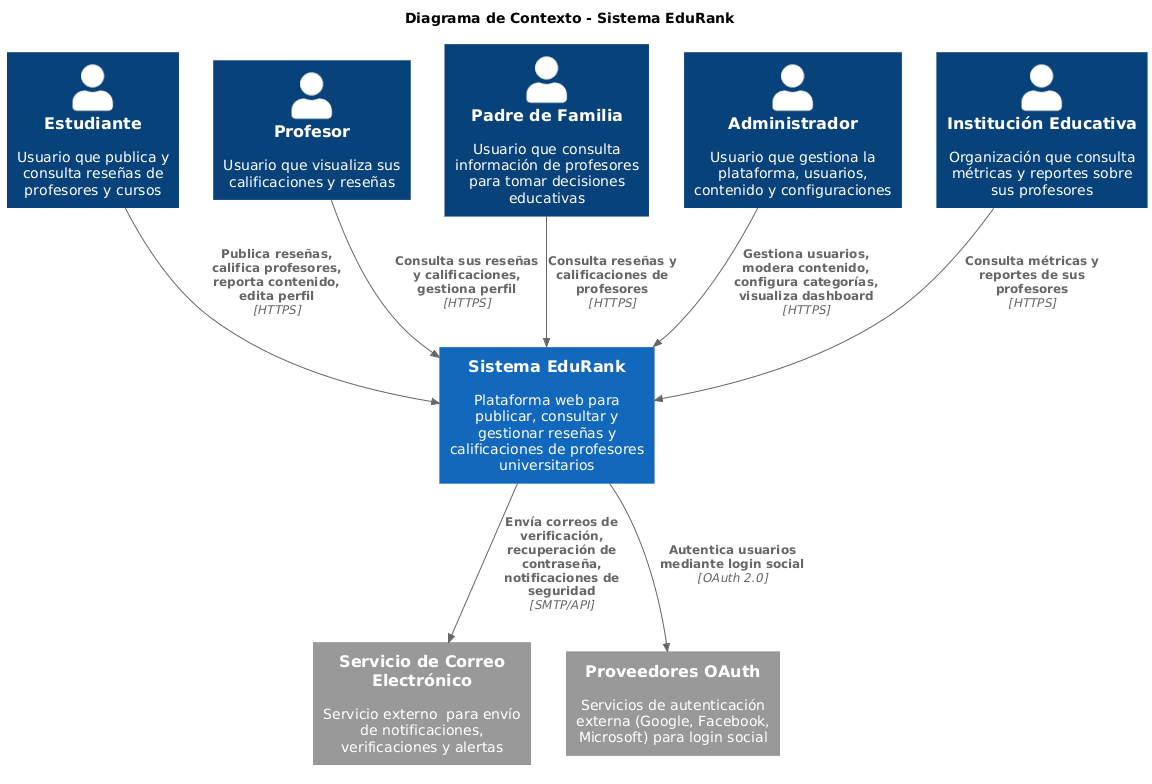
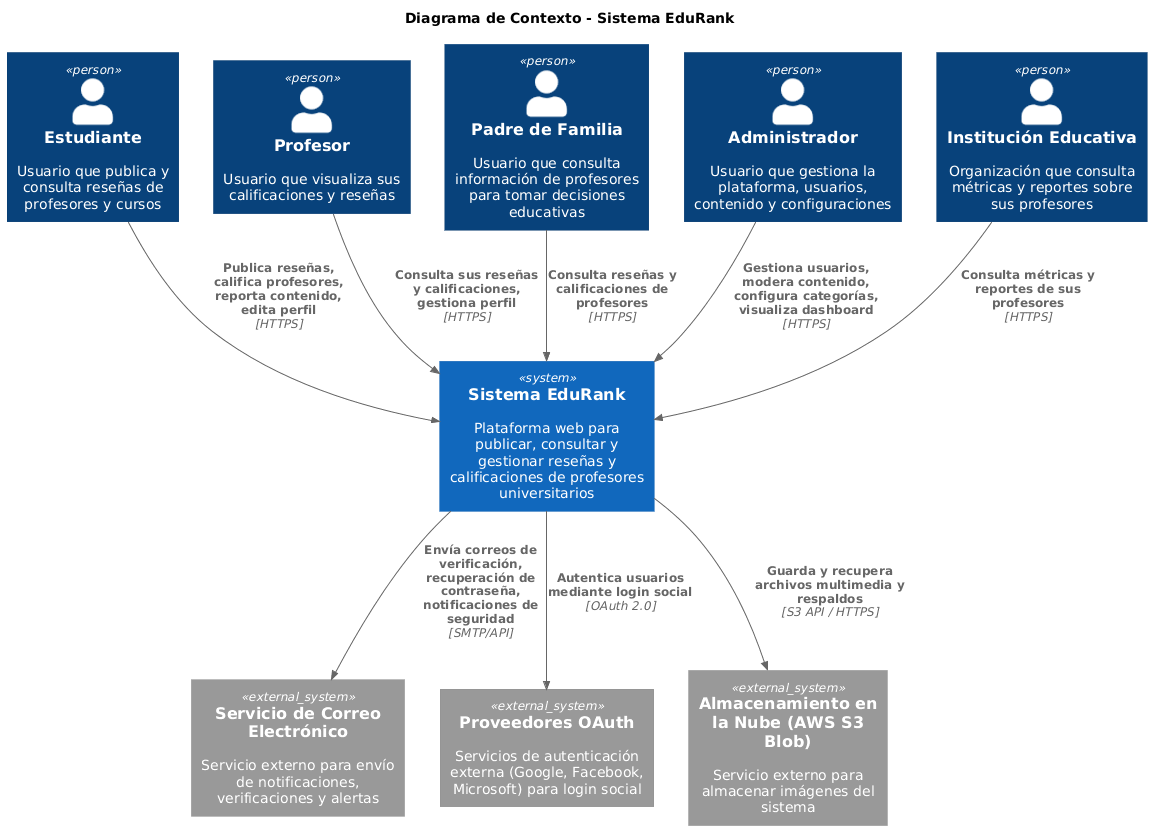
Diagramas y correcciones

diff --git a/3/3.3/3.3.md b/3/3.3/3.3.md
@@ -15,7 +15,7 @@ Este documento presenta la consolidación de los 30 escenarios preliminares iden
 | ESC-03 | Usabilidad | Administrador sin experiencia técnica necesita cambiar estados de cuenta, configurar categorías, buscar reseñas, ordenar datos, editar perfil o actualizar foto desde móvil | El usuario completa todas las acciones sin asistencia externa mediante interfaz intuitiva con tutoriales y paneles amigables en <5 pasos y <3 minutos | ESCP-03, ESCP-05, ESCP-16, ESCP-21, ESCP-23, ESCP-28 | Interfaz intuitiva y consistente en todos los módulos |
 | ESC-04 | Rendimiento | Cientos de usuarios malintencionados o administradores concurrentes solicitan simultáneamente reportes de cuentas de usuarios | El sistema activa limitación de peticiones (rate-limiting) o encola solicitudes para evitar saturación, manteniendo servicio disponible y rechazando excedentes en <1s | ESCP-04 | Procesamiento de volúmenes con protección DDoS |
 | ESC-05 | Seguridad | Usuarios no autorizados intentan acceder al panel administrativo, editar reseñas ajenas, acceder a perfiles privados o subir archivos con extensiones no permitidas (.exe) | El sistema bloquea todos los intentos inmediatamente, registra eventos en log de auditoría (<1s), notifica al administrador y muestra mensaje de error sin comprometer seguridad | ESCP-06, ESCP-18, ESCP-25, ESCP-30 | Detección de amenazas y validación de acceso |
-| ESC-06 | Mantenibilidad | Equipo de desarrollo solicita cambios en lógica de validación de usuarios, agregar filtros de reseñas, corregir validación de texto o agregar campo opcional al perfil | El cambio se implementa y despliega sin afectar otras funcionalidades del sistema mediante arquitectura modular en tiempo <4 horas con pruebas automatizadas | ESCP-07, ESCP-15, ESCP-22, ESCP-27 | Actualizaciones sin interrupción de servicio |
+| ESC-06 | Mantenibilidad | Equipo de desarrollo solicita cambios en lógica de validación de usuarios, agregar filtros de reseñas, corregir validación de texto o agregar campo opcional al perfil | El cambio se implementa y despliega sin afectar otras funcionalidades del sistema mediante backend monolítico con componentes modulares en tiempo <4 horas con pruebas automatizadas | ESCP-07, ESCP-15, ESCP-22, ESCP-27 | Actualizaciones sin interrupción de servicio |
 | ESC-07 | Confidencialidad | Usuario sin permisos intenta leer datos privados de perfil de otros usuarios mediante acceso directo a endpoints | El sistema enforza control estricto por rol/propiedad de recurso con 100% de endpoints verificando permisos antes de retornar datos | ESCP-10 | Protección de información privada |
 | ESC-08 | Integridad | Atacante modifica token de acceso con firma inválida o realiza acción crítica desde sesión secuestrada en dispositivo desconocido | El sistema rechaza la solicitud inmediatamente, solicita re-autenticación o 2FA, invalida tokens previos y detecta cambio de IP en <3s con cierre de sesión global en <6s | ESCP-11, ESCP-12 | Validación de integridad de sesiones |
 | ESC-09 | Disponibilidad | Pico de 100 logins por minuto de usuarios legítimos durante hora pico con verificación 2FA | El sistema escala horizontalmente con rate-limit por IP/usuario, procesando logins en <2s con error rate <1% y sin caída del servicio 2FA | ESCP-13 | Escalabilidad horizontal en autenticación |
@@ -27,7 +27,7 @@ Este documento presenta la consolidación de los 30 escenarios preliminares iden
 | ESC-15 | Usabilidad | Usuario desea ordenar reseñas por diferentes criterios (fecha, calificación, relevancia) | El sistema muestra opciones de ordenamiento visibles y accesibles, permitiendo que el usuario encuentre la opción en <5 segundos con feedback inmediato | ESCP-21 | Personalización de interfaz |
 | ESC-16 | Mantenibilidad | Desarrollador necesita agregar nueva funcionalidad de filtros avanzados al módulo de reseñas y calificaciones | El sistema permite implementar nuevos filtros mediante arquitectura de plugins sin modificar código existente en tiempo <4 horas con tests automatizados | ESCP-15 | Arquitectura modular y extensible |
 | ESC-17 | Rendimiento | Administrador consulta listado general de usuarios con todos sus datos al iniciar el sistema durante jornada laboral | El sistema optimiza carga inicial mediante caché y consultas eficientes, mostrando información completa sin retrasos perceptibles en <5s con interfaz estable | ESCP-08 | Optimización de carga inicial |
-| ESC-18 | Disponibilidad | Falla simultánea de múltiples servidores (administración, reseñas, perfiles) en diferentes módulos del sistema | El sistema detecta las fallas y restaura cada servicio automáticamente mediante healthchecks y restart policies en tiempo <30 segundos por módulo | ESCP-02, ESCP-19, ESCP-26 | Recuperación automática de servicios |
+| ESC-18 | Disponibilidad | Falla del servidor backend que afecta múltiples componentes (administración, reseñas, perfiles) del sistema monolítico | El sistema detecta la falla y restaura el proceso automáticamente mediante monitor de procesos (PM2/Supervisor) con healthchecks y restart policies en tiempo <30 segundos | ESCP-02, ESCP-19, ESCP-26 | Recuperación automática del servidor |
 | ESC-19 | Usabilidad | Usuario autenticado desea editar información personal o actualizar foto de perfil desde dispositivo móvil o web | El sistema muestra formulario de edición con datos actuales precargados y permite previsualizar cambios antes de guardar en proceso de <2 pasos completado en <2 segundos | ESCP-23, ESCP-28 | Formularios precargados y responsivos |
 | ESC-20 | Confidencialidad | Atacante intenta login con credenciales comprometidas o filtradas de bases de datos externas | El sistema rechaza autenticación sin revelar si el correo existe en la base de datos, registra el intento sospechoso y retorna respuesta HTTP 401 en <300ms | ESCP-09 | Comunicación segura de errores de autenticación |
 

diff --git a/6/6.3/6.3.md b/6/6.3/6.3.md
@@ -2,78 +2,9 @@
 
 # 6.3. Diagrama de Componentes
 
-Este diagrama profundiza en el **Backend Monolítico** del Sistema EduRank, descomponiéndolo en los componentes clave que colaboran para proporcionar la funcionalidad del sistema.
+
+![Diagrama de Componentes](diagramacomponentes.png)
 
 ---
-
-## Diagrama de Componentes C4 - Backend EduRank
-
-```plantuml
-@startuml
-!include https://raw.githubusercontent.com/plantuml-stdlib/C4-PlantUML/master/C4_Component.puml
-
-LAYOUT_WITH_LEGEND()
-
-title Diagrama de Componentes - Sistema EduRank Backend
-
-Person(user, "Usuario", "Estudiante, Profesor, Administrador")
-
-Container(webApp, "Aplicación Web SPA", "React", "Interfaz de usuario del sistema")
-
-Container_Boundary(backend, "Backend Monolítico") {
-    Component(apiController, "Controlador API REST", "Express.js", "Expone endpoints REST")
-    
-    Component(authComp, "Componente de Autenticación", "Node.js", "Login, 2FA, OAuth (RF10-RF15)")
-    Component(securityComp, "Componente de Seguridad", "Middleware", "JWT, RBAC, Rate Limiting (ESC-05,07,20)")
-    
-    Component(reviewsComp, "Componente de Reseñas", "Capa de Servicios", "CRUD Reseñas (RF19-RF25)")
-    Component(profilesComp, "Componente de Perfiles", "Capa de Servicios", "Gestión Perfiles (RF26-RF31)")
-    Component(adminComp, "Componente de Administración", "Capa de Servicios", "Moderación (RF01-RF09)")
-    
-    ComponentDb(dataAccess, "Capa de Acceso a Datos", "Repositorios ORM", "CRUD usuarios, reseñas, perfiles")
-    
-    Component(cacheManager, "Gestor de Caché", "Cliente Redis", "Sesiones y caché (ESC-01,17)")
-    Component(emailClient, "Cliente de Correo", "Nodemailer", "Envío de correos electrónicos")
-}
-
-ContainerDb(database, "Base de Datos", "PostgreSQL", "Almacena todos los datos del sistema")
-ContainerDb(cache, "Caché Redis", "Redis", "Almacena sesiones y consultas frecuentes")
-
-System_Ext(emailService, "Servicio de Correo", "Proveedor externo de email")
-System_Ext(oauthProviders, "Proveedores OAuth", "Google, Facebook")
-
-Rel(user, webApp, "Usa", "HTTPS")
-Rel(webApp, apiController, "Consume API", "JSON/HTTPS")
-
-Rel(apiController, securityComp, "Valida seguridad")
-Rel(apiController, authComp, "Autentica usuario")
-Rel(apiController, reviewsComp, "Gestiona reseñas")
-Rel(apiController, profilesComp, "Gestiona perfiles")
-Rel(apiController, adminComp, "Funciones admin")
-
-Rel(securityComp, cacheManager, "Valida sesiones")
-Rel(authComp, dataAccess, "Lee/Escribe usuarios")
-Rel(authComp, cacheManager, "Guarda sesiones")
-Rel(authComp, emailClient, "Envía verificación")
-Rel(authComp, oauthProviders, "Autentica con", "OAuth 2.0")
-
-Rel(reviewsComp, dataAccess, "Lee/Escribe reseñas")
-Rel(reviewsComp, cacheManager, "Cachea consultas")
-
-Rel(profilesComp, dataAccess, "Lee/Escribe perfiles")
-Rel(adminComp, dataAccess, "Modera contenido")
-Rel(adminComp, emailClient, "Envía alertas")
-
-Rel(dataAccess, database, "Lee/Escribe", "SQL")
-Rel(cacheManager, cache, "Lee/Escribe", "Protocolo Redis")
-Rel(emailClient, emailService, "Envía correos", "SMTP")
-
-@enduml
-```
-
-**Descripción:**  
-El diagrama muestra la descomposición interna del Backend Monolítico en componentes especializados. El **Controlador API REST** actúa como punto de entrada y distribuye las peticiones a los componentes de negocio (Autenticación, Seguridad, Reseñas, Perfiles, Administración). Estos componentes coordinan la lógica de negocio y utilizan la **Capa de Acceso a Datos** para persistir información en PostgreSQL. El **Gestor de Caché** optimiza el rendimiento almacenando sesiones y consultas frecuentes en Redis, mientras que el **Cliente de Correo** maneja las notificaciones por email. Los sistemas externos (OAuth, Email Service) se integran a través de componentes especializados.
-
-
 
 [⬅ Anterior](../6.2/6.2.md) | [🏠 Home](../../README.md) | [Siguiente ➡](../6.4/6.4.md)

diff --git a/3/3.5/3.5.md b/3/3.5/3.5.md
@@ -14,7 +14,7 @@ Este documento presenta el refinamiento detallado de los 20 escenarios consolida
 | ESC-02 | Disponibilidad | Fallo de hardware | Caída del servidor principal durante horario laboral | Infraestructura con healthchecks | Producción | Reinicio automático del servicio afectado | Recuperación en <10 minutos (90% casos <30s) |
 | ESC-03 | Usabilidad | Administrador nuevo | Primera vez configurando categorías en el sistema | Interfaz web con tutorial interactivo | Producción | Tutorial paso a paso con tooltips y validación | 90% completan tarea sin asistencia en <3 minutos |
 | ESC-04 | Rendimiento | Bots automatizados | Cientos de solicitudes de reportes simultáneas | API con rate-limiting y cola FIFO | Producción | Limitación de peticiones y encolamiento automático | Rate-limit activado <1s, 100% uptime |
-| ESC-06 | Mantenibilidad | Equipo desarrollo | Cambio en lógica de validación de usuarios | Arquitectura modular con microservicios | Desarrollo | Despliegue del cambio sin afectar otros módulos | Implementación <4 horas + 0 downtime |
+| ESC-06 | Mantenibilidad | Equipo desarrollo | Cambio en lógica de validación de usuarios | Backend monolítico con componentes modulares | Desarrollo | Despliegue del cambio sin afectar otros módulos | Implementación <4 horas + 0 downtime |
 | ESC-08 | Integridad | Atacante externo | Modificación de token JWT con firma inválida | Sistema de gestión de sesiones JWT | Producción | Rechazo de solicitud y cierre de sesión global | Detección <3s, cierre sesión <6s |
 | ESC-01 | Rendimiento | 300 usuarios concurrentes | Generación masiva de listados con filtros avanzados | Servidor con caché Redis y balanceador | Producción | Procesamiento sin degradación mediante escalado | 95% requests <3s con 300 usuarios |
 | ESC-07 | Confidencialidad | Usuario sin permisos | Intento de acceso directo a endpoint /users/:id/profile | API REST con middleware de autorización | Producción | Validación de permisos y rechazo con HTTP 403 | 100% endpoints protegidos, validación <50ms |
@@ -27,7 +27,7 @@ Este documento presenta el refinamiento detallado de los 20 escenarios consolida
 | ESC-12 | Rendimiento | 100 usuarios concurrentes | Actualización simultánea de datos de perfil personal | Módulo de perfiles con cola asíncrona | Producción | Procesamiento asíncrono con cola FIFO | Guardado <1s, tiempo medio <2s bajo carga |
 | ESC-13 | Seguridad | Usuario malicioso | Intento de subir archivo .exe como foto de perfil | Validador de tipo MIME en backend | Producción | Rechazo con validación de extensión y tipo MIME | 100% archivos maliciosos bloqueados |
 | ESC-15 | Usabilidad | Usuario | Click en ordenar por "Fecha más reciente" en listado | Componente de ordenamiento con dropdown | Producción | Reordenamiento instantáneo de reseñas mostradas | Cambio visible <500ms (feedback inmediato) |
-| ESC-18 | Disponibilidad | Error en despliegue | Caída simultánea de servicios (admin, reseñas, perfiles) | Kubernetes con healthchecks cada 10s | Producción | Detección de fallas y restart automático por módulo | Recuperación <30s por módulo |
+| ESC-18 | Disponibilidad | Error en despliegue | Caída del servidor backend monolítico | Infraestructura con monitor automático (PM2/Supervisor) | Producción | Detección de falla y restart automático del proceso | Recuperación <30s |
 | ESC-19 | Usabilidad | Usuario autenticado | Click en "Editar perfil" desde vista de perfil personal | Formulario de edición con datos precargados | Producción | Formulario con datos actuales y preview de cambios | Proceso <2 pasos, guardado <2s |
 | ESC-20 | Confidencialidad | Atacante | Intento de login con credenciales filtradas (credential stuffing) | WAF con detector de credenciales comprometidas | Producción | Rechazo sin revelar existencia del email + log | Respuesta genérica <300ms |
 

diff --git a/6/6.2/6.2.md b/6/6.2/6.2.md
@@ -2,68 +2,9 @@
 
 # 6.2. Diagrama de Contenedores
 
-Este diagrama ilustra los contenedores dentro del **Sistema EduRank**, mostrando las aplicaciones, bases de datos, microservicios y otros elementos que forman la solución, junto con sus interacciones y tecnologías utilizadas.
 
----
 
-## Diagrama de Contenedores C4 - EduRank
-
-```plantuml
-@startuml C4_Container
-!include https://raw.githubusercontent.com/plantuml-stdlib/C4-PlantUML/master/C4_Container.puml
-
-LAYOUT_WITH_LEGEND()
-
-title Diagrama de Contenedores - Sistema EduRank
-
-Person(estudiante, "Estudiante", "Publica y consulta reseñas")
-Person(profesor, "Profesor", "Consulta calificaciones")
-Person(admin, "Administrador", "Gestiona la plataforma")
-Person(padre, "Padre de Familia", "Consulta información")
-Person(institucion, "Institución", "Consulta métricas")
-
-System_Boundary(edurank_system, "Sistema EduRank") {
-    Container(web_app, "Aplicación Web SPA", "React/Vue.js", "Interfaz de usuario que proporciona funcionalidad de reseñas, perfiles y búsqueda en el navegador")
-    
-    Container(backend_app, "Aplicación Backend Monolítica", "Python/Django o Node.js/Express", "Servidor web que maneja toda la lógica de negocio: autenticación (RF10-RF18), reseñas (RF19-RF25), perfiles (RF26-RF31), administración (RF01-RF09)")
-    
-    Container(cache, "Caché Redis", "Redis 7.x", "Almacena sesiones de usuario, resultados de consultas frecuentes para optimizar rendimiento")
-    
-    ContainerDb(database, "Base de Datos", "PostgreSQL 15", "Almacena todos los datos: usuarios, credenciales, reseñas, calificaciones, perfiles, configuraciones, categorías, logs de auditoría")
-    
-    Container(file_storage, "Almacenamiento de Archivos", "Sistema de Archivos Local", "Almacena fotos de perfil y archivos subidos por usuarios")
-}
-
-System_Ext(email_service, "Servicio de Correo", "AWS SES/SendGrid")
-System_Ext(oauth_providers, "Proveedores OAuth", "Google/Facebook/Microsoft")
-System_Ext(cloud_storage, "Almacenamiento Cloud", "AWS S3/Azure Blob")
-
-' Relaciones Usuarios -> Aplicación Web
-Rel(estudiante, web_app, "Usa", "HTTPS")
-Rel(profesor, web_app, "Usa", "HTTPS")
-Rel(admin, web_app, "Usa", "HTTPS")
-Rel(padre, web_app, "Usa", "HTTPS")
-Rel(institucion, web_app, "Usa", "HTTPS")
-
-' Relaciones Web App -> Backend
-Rel(web_app, backend_app, "Realiza llamadas API", "JSON/HTTPS")
-
-' Relaciones Backend -> Caché
-Rel(backend_app, cache, "Lee/Escribe sesiones y cachea consultas", "Redis Protocol")
-
-' Relaciones Backend -> Base de Datos
-Rel(backend_app, database, "Lee/Escribe todos los datos", "SQL/TCP")
-
-' Relaciones Backend -> Almacenamiento
-Rel(backend_app, file_storage, "Almacena/Recupera archivos", "File System")
-
-' Relaciones Backend -> Servicios Externos
-Rel(backend_app, email_service, "Envía correos de verificación y notificaciones", "SMTP/API")
-Rel(backend_app, oauth_providers, "Valida tokens de autenticación social", "OAuth 2.0")
-Rel(backend_app, cloud_storage, "Sube/Descarga archivos multimedia", "API REST")
-
-@enduml
-```
+![Diagrama de Contenedores](diagramacontenedores.png)
 
 
 ---

diff --git a/0/0.6/0.6.4/0.6.4.md b/0/0.6/0.6.4/0.6.4.md
@@ -96,9 +96,10 @@ Es una plataforma de gestión de APIs basada en la nube que permite administrar,
 
 ---
 
-## Detalle de Configuración del Ejemplo: Demo
+![Diagrama de Despliegue](despliegue.png)
 
-Esta sección describe la implementación práctica de API Management utilizando **Azure Container Apps** para el despliegue de servicios y **Kong Gateway** como API Gateway. La demo ilustra cómo configurar un sistema completo de gestión de APIs con autenticación JWT y control CORS.
+---
+
 
 ### Arquitectura de la Demo
 

diff --git a/6/6.1/6.1.md b/6/6.1/6.1.md
@@ -2,11 +2,7 @@
 
 # 6.1. Diagrama de Contexto
 
-Este diagrama muestra la visión más alta de la arquitectura del **Sistema EduRank**, definiendo el sistema en su entorno y las interacciones con sus usuarios y sistemas externos.
 
----
-
-## Diagrama de Contexto C4 - EduRank
 
 ![Diagrama de Contexto](diagramacontexto.png)
 
